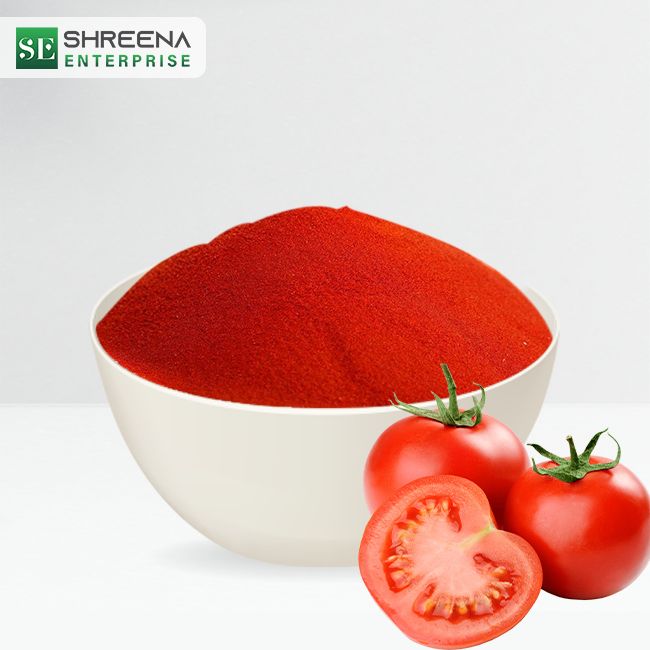
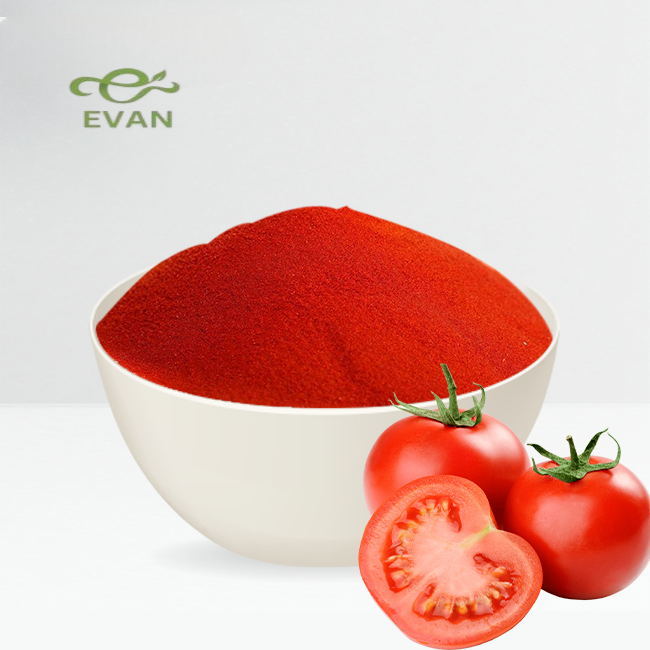
all changes

Changed region(s): [[0.0, 0.0, 0.3077, 0.2154]]

diff --git a/index.html b/index.html
@@ -24,7 +24,7 @@
         <meta name="msapplication-TileColor" content="#ffffff">
         <meta name="msapplication-TileImage" content="favicon/ms-icon-144x144.png">
         <meta name="theme-color" content="#ffffff">
-		<title>Even natural foods</title>
+		<title>Evan natural foods</title>
 		<!-- Font Awesome CSS -->
 		<link rel="stylesheet" type="text/css" href="assets/css/font-awesome.min.css" media="all" />
 		<!-- Bootstrap CSS -->
@@ -55,7 +55,7 @@
 				<div class="row">
 					<div class="col-md-2 col-sm-6">
 						<div class="logo">
-							<a href="index.html"><img src="assets/images/logo-removebg-preview (1).png" alt="logo"></a>
+							<a href="index.html"><img src="assets/images/mainlogo2-removebg-preview.png" alt="logo"></a>
 						</div>
 					</div>
 					<div class="col-md-10 col-sm-6">
@@ -133,7 +133,7 @@
                     <div class="col-lg-3 col-sm-6 new other">
                         <div class="sell-item max-width-360">
 							<div class="product-img">
-								<img src="assets/images/producttwo-logo.jpg" alt="">
+								<img src="assets/images/producttwo.png" alt="">
 								<div class="product-img-overlay">
 									<a href="https://api.whatsapp.com/send/?phone=%2B919537766039&text=Hello%2C+I+would+like+to+buy+Best+Pure+Fried+Onion+Powder+(Churi)+Birista!%21&app_absent=0" class="krishok-btn">Buy Now <i class="fa fa-shopping-cart"></i></a>
 								</div>
@@ -145,7 +145,7 @@
                     <div class="col-lg-3 col-sm-6 best seasonal">
                         <div class="sell-item max-width-360">
 							<div class="product-img">
-								<img src="assets/images/productone-logo.jpg" alt="">
+								<img src="assets/images/productone.png" alt="">
 								<div class="product-img-overlay">
 									<a href="https://api.whatsapp.com/send/?phone=%2B919537766039&text=Hello%2C+I+would+like+to+buy+High+Quality+Spray+Dried+Banana+Powder!%21&app_absent=0" class="krishok-btn">Buy Now <i class="fa fa-shopping-cart"></i></a>
 								</div>
@@ -157,7 +157,7 @@
                     <div class="col-lg-3 col-sm-6 other">
                         <div class="sell-item max-width-360">
 							<div class="product-img">
-								<img src="assets/images/productthree-logo.jpg" alt="">
+								<img src="assets/images/productthree.png" alt="">
 								<div class="product-img-overlay">
 									<a href="https://api.whatsapp.com/send/?phone=%2B919537766039&text=Hello%2C+I+would+like+to+buy+Best+Pure+Curry+Leaves+Powder!%21&app_absent=0" class="krishok-btn">Buy Now <i class="fa fa-shopping-cart"></i></a>
 								</div>
@@ -169,7 +169,7 @@
                     <div class="col-lg-3 col-sm-6 new best">
                         <div class="sell-item max-width-360">
 							<div class="product-img">
-								<img src="assets/images/productfour-logo.jpg" alt="">
+								<img src="assets/images/productfour.png" alt="">
 								<div class="product-img-overlay">
 									<a href="https://api.whatsapp.com/send/?phone=%2B919537766039&text=Hello%2C+I+would+like+to+buy+Natural+Beet+Root+Powder!%21&app_absent=0" class="krishok-btn">Buy Now <i class="fa fa-shopping-cart"></i></a>
 								</div>
@@ -181,7 +181,7 @@
                     <div class="col-lg-3 col-sm-6 new best">
                         <div class="sell-item max-width-360">
 							<div class="product-img">
-								<img src="assets/images/productfive-logo.jpg" alt="">
+								<img src="assets/images/productfive.png" alt="">
 								<div class="product-img-overlay">
 									<a href="https://api.whatsapp.com/send/?phone=%2B919537766039&text=Hello%2C+I+would+like+to+buy+Premium+High+Quality+Moringa+Leaves+Powder!%21&app_absent=0" class="krishok-btn">Buy Now <i class="fa fa-shopping-cart"></i></a>
 								</div>
@@ -193,7 +193,7 @@
                     <div class="col-lg-3 col-sm-6 new best">
                         <div class="sell-item max-width-360">
 							<div class="product-img">
-								<img src="assets/images/productseven-Photoroom-logo.png" alt="">
+								<img src="assets/images/productseven.png" alt="">
 								<div class="product-img-overlay">
 									<a href="https://api.whatsapp.com/send/?phone=%2B919537766039&text=Hello%2C+I+would+like+to+buy+Premium+Quality+Spray+Dried+Tomato+Powder!%21&app_absent=0" class="krishok-btn">Buy Now <i class="fa fa-shopping-cart"></i></a>
 								</div>
@@ -205,7 +205,7 @@
                     <div class="col-lg-3 col-sm-6 new best">
                         <div class="sell-item max-width-360">
 							<div class="product-img">
-								<img src="assets/images/fexmon-wheatgrass-powder-1603526081-5616877-logo.jpg" alt="">
+								<img src="assets/images/producteight.jpg" alt="">
 								<div class="product-img-overlay">
 									<a href="https://api.whatsapp.com/send/?phone=%2B919537766039&text=Hello%2C+I+would+like+to+buy+Premium+High+Quality+Wheatgrass+Powder!%21&app_absent=0" class="krishok-btn">Buy Now <i class="fa fa-shopping-cart"></i></a>
 								</div>
@@ -217,7 +217,7 @@
                     <div class="col-lg-3 col-sm-6 new best">
                         <div class="sell-item max-width-360">
 							<div class="product-img">
-								<img src="assets/images/Freeze-Dried-Amla-Powder-1-Photoroom-logo.png" alt="">
+								<img src="assets/images/productnine.png" alt="">
 								<div class="product-img-overlay">
 									<a href="https://api.whatsapp.com/send/?phone=%2B919537766039&text=Hello%2C+I+would+like+to+buy+Herbal+Amla+Powder!%21&app_absent=0" class="krishok-btn">Buy Now <i class="fa fa-shopping-cart"></i></a>
 								</div>
@@ -258,22 +258,22 @@
 						<div class="tab-accordion pt-75">
 							<div class="tab-content">
 								<div id="menu1" class="tab-pane fade">
-								    <img src="assets/images/productfive-logo.jpg" alt="">
+								    <img src="assets/images/productfive.png" alt="">
 								</div>
 								<div id="menu2" class="tab-pane fade active show">
-								    <img src="assets/images/productfour-logo.jpg" alt="">
+								    <img src="assets/images/productfour.png" alt="">
 								</div>
 								<div id="menu3" class="tab-pane fade">
-								    <img src="assets/images/productone-logo.jpg" alt="">
+								    <img src="assets/images/productone.png" alt="">
 								</div>
 								<div id="menu4" class="tab-pane fade">
-								    <img src="assets/images/producttwo-logo.jpg" alt="">
+								    <img src="assets/images/producttwo.png" alt="">
 								</div>
 								<div id="menu5" class="tab-pane fade">
-								    <img src="assets/images/productthree-logo.jpg" alt="">
+								    <img src="assets/images/productthree.png" alt="">
 								</div>
 								<div id="menu6" class="tab-pane fade">
-								    <img src="assets/images/productseven-Photoroom-logo.png" alt="">
+								    <img src="assets/images/" alt="">
 								</div>
 								
 							</div>
@@ -284,7 +284,7 @@
                             <li class="nav-item"><a data-toggle="tab" href="#menu1">
                                 <div class="product-list">
                                     <div class="product-list-img">
-                                        <img src="assets/images/productfive-logo.jpg" alt="">
+                                        <img src="assets/images/productfive.png" alt="">
                                     </div>
                                     <div class="product-list-info">
                                         <div class="product-list-info-table">
@@ -301,7 +301,7 @@
                             <li class="nav-item"><a class="active" data-toggle="tab" href="#menu2">
                                 <div class="product-list">
                                     <div class="product-list-img">
-                                        <img src="assets/images/productfour-logo.jpg" alt="">
+                                        <img src="assets/images/productfour.png" alt="">
                                     </div>
                                     <div class="product-list-info">
                                         <div class="product-list-info-table">
@@ -318,7 +318,7 @@
                             <li class="nav-item"><a data-toggle="tab" href="#menu3">
                                 <div class="product-list">
                                     <div class="product-list-img">
-                                        <img src="assets/images/productone-logo.jpg" alt="">
+                                        <img src="assets/images/productone.png" alt="">
                                     </div>
                                     <div class="product-list-info">
                                         <div class="product-list-info-table">
@@ -335,7 +335,7 @@
                             <li class="nav-item"><a data-toggle="tab" href="#menu4">
                                 <div class="product-list">
                                     <div class="product-list-img">
-                                        <img src="assets/images/producttwo-logo.jpg" alt="">
+                                        <img src="assets/images/producttwo.png" alt="">
                                     </div>
                                     <div class="product-list-info">
                                         <div class="product-list-info-table">
@@ -352,7 +352,7 @@
                             <!-- <li class="nav-item"><a data-toggle="tab" href="#menu5">
                                 <div class="product-list">
                                     <div class="product-list-img">
-                                        <img src="assets/images/productthree-logo.jpg" alt="">
+                                        <img src="assets/images/productthree.png" alt="">
                                     </div>
                                     <div class="product-list-info">
                                         <div class="product-list-info-table">
@@ -369,7 +369,7 @@
                             <!-- <li class="nav-item"><a data-toggle="tab" href="#menu6">
                                 <div class="product-list">
                                     <div class="product-list-img">
-                                        <img src="assets/images/productseven-Photoroom-logo.png" alt="">
+                                        <img src="assets/images/" alt="">
                                     </div>
                                     <div class="product-list-info">
                                         <div class="product-list-info-table">
@@ -405,7 +405,7 @@
                         <div class="sell-area owl-carousel">
                             <div class="sell-item">
 								<div class="product-img">
-									<img src="assets/images/fexmon-wheatgrass-powder-1603526081-5616877-logo.jpg" alt="">
+									<img src="assets/images/producteight.jpg" alt="">
 									<div class="product-img-overlay">
 										<a href="https://api.whatsapp.com/send/?phone=%2B919537766039&text=Hello%2C+I+would+like+to+buy+Premium+High+Quality+Wheatgrass+Powder!%21&app_absent=0" class="krishok-btn">Buy Now <i class="fa fa-shopping-cart"></i></a>
 									</div>
@@ -415,7 +415,7 @@
                             </div>
                             <div class="sell-item">
 								<div class="product-img">
-									<img src="assets/images/Freeze-Dried-Amla-Powder-1-Photoroom-logo.png" alt="">
+									<img src="assets/images/productnine.png" alt="">
 									<div class="product-img-overlay">
 										<a href="https://api.whatsapp.com/send/?phone=%2B919537766039&text=Hello%2C+I+would+like+to+buy+Herbal+Amla+Powder!%21&app_absent=0" class="krishok-btn">Buy Now <i class="fa fa-shopping-cart"></i></a>
 									</div>
@@ -425,7 +425,7 @@
                             </div>
                             <div class="sell-item">
 								<div class="product-img">
-									<img src="assets/images/productfive-logo.jpg" alt="">
+									<img src="assets/images/productfive.png" alt="">
 									<div class="product-img-overlay">
 										<a href="https://api.whatsapp.com/send/?phone=%2B919537766039&text=Hello%2C+I+would+like+to+buy+Premium+High+Quality+Moringa+Leaves+Powder!%21&app_absent=0" class="krishok-btn">Buy Now <i class="fa fa-shopping-cart"></i></a>
 									</div>
@@ -435,7 +435,7 @@
                             </div>
                             <div class="sell-item">
 								<div class="product-img">
-									<img src="assets/images/productfour-logo.jpg" alt="">
+									<img src="assets/images/productfour.png" alt="">
 									<div class="product-img-overlay">
 										<a href="https://api.whatsapp.com/send/?phone=%2B919537766039&text=Hello%2C+I+would+like+to+buy+Natural+Beet+Root+Powder!%21&app_absent=0" class="krishok-btn">Buy Now <i class="fa fa-shopping-cart"></i></a>
 									</div>
@@ -445,7 +445,7 @@
                             </div>
                             <div class="sell-item">
 								<div class="product-img">
-									<img src="assets/images/productone-logo.jpg" alt="">
+									<img src="assets/images/productone.png" alt="">
 									<div class="product-img-overlay">
 										<a href="https://api.whatsapp.com/send/?phone=%2B919537766039&text=Hello%2C+I+would+like+to+buy+High+Quality+Spray+Dried+Banana+Powder!%21&app_absent=0" class="krishok-btn">Buy Now <i class="fa fa-shopping-cart"></i></a>
 									</div>
@@ -548,7 +548,7 @@
 		<!-- Wow JS -->
 		<script src="assets/js/wow-1.3.0.min.js"></script>
         <!-- Google map api -->
-        <script src="https://maps.googleapis.com/maps/api/js?key=AIzaSyCXNQbOV3ZGoxAQ_H2FtRAS_i9yOdZFfBo&amp;region=GB"></script>
+      
 		<!-- Imagezoom JS -->
 		<script src="assets/js/jquery.imagezoom.js"></script>
 		<!-- main JS -->

diff --git a/products.html b/products.html
@@ -53,7 +53,7 @@
 				<div class="row">
 					<div class="col-md-2 col-sm-6">
 						<div class="logo">
-							<a href="index.html"><img src="assets/images/logo-removebg-preview (1).png" alt="logo"></a>
+							<a href="index.html"><img src="assets/images/mainlogo2-removebg-preview.png" alt="logo"></a>
 						</div>
 					</div>
 					<div class="col-md-10 col-sm-6">
@@ -96,7 +96,7 @@
                         <div class="single-product max-width-360">
 							<div class="single-product-img">
 								<div class="product-img">
-									<img src="assets/images/productfive-logo.jpg" alt="">
+									<img src="assets/images/productfive.png" alt="">
 									<div class="product-img-overlay">
 										<a href="https://api.whatsapp.com/send/?phone=%2B919537766039&text=Hello%2C+I+would+like+to+buy+Premium+High+Quality+Moringa+Leaves+Powder!%21&app_absent=0" class="krishok-btn">Buy Now <i class="fa fa-shopping-cart"></i></a>
 									</div>
@@ -115,7 +115,7 @@
                         <div class="single-product max-width-360">
 							<div class="single-product-img">
 								<div class="product-img">
-									<img src="assets/images/productfour-logo.jpg" alt="">
+									<img src="assets/images/productfour.png" alt="">
 									<div class="product-img-overlay">
 										<a href="https://api.whatsapp.com/send/?phone=%2B919537766039&text=Hello%2C+I+would+like+to+buy+Natural+Beet+Root+Powder!%21&app_absent=0" class="krishok-btn">Buy Now <i class="fa fa-shopping-cart"></i></a>
 									</div>
@@ -134,7 +134,7 @@
                         <div class="single-product max-width-360">
 							<div class="single-product-img">
 								<div class="product-img">
-									<img src="assets/images/productone-logo.jpg" alt="">
+									<img src="assets/images/productone.png" alt="">
 									<div class="product-img-overlay">
 										<a href="https://api.whatsapp.com/send/?phone=%2B919537766039&text=Hello%2C+I+would+like+to+buy+High+Quality+Spray+Dried+Banana+Powder!%21&app_absent=0" class="krishok-btn">Buy Now <i class="fa fa-shopping-cart"></i></a>
 									</div>
@@ -153,7 +153,7 @@
                         <div class="single-product max-width-360">
 							<div class="single-product-img">
 								<div class="product-img">
-									<img src="assets/images/productseven-Photoroom-logo.png" alt="">
+									<img src="assets/images/productseven.png" alt="">
 									<div class="product-img-overlay">
 										<a href="https://api.whatsapp.com/send/?phone=%2B919537766039&text=Hello%2C+I+would+like+to+buy+Premium+Quality+Spray+Dried+Tomato+Powder!%21&app_absent=0" class="krishok-btn">Buy Now <i class="fa fa-shopping-cart"></i></a>
 									</div>
@@ -173,7 +173,7 @@
                         <div class="single-product max-width-360">
 							<div class="single-product-img">
 								<div class="product-img">
-									<img src="assets/images/productthree-logo.jpg" alt="">
+									<img src="assets/images/productthree.png" alt="">
 									<div class="product-img-overlay">
 										<a href="https://api.whatsapp.com/send/?phone=%2B919537766039&text=Hello%2C+I+would+like+to+buy+Best+Pure+Curry+Leaves+Powder!%21&app_absent=0" class="krishok-btn">Buy Now <i class="fa fa-shopping-cart"></i></a>
 									</div>
@@ -193,7 +193,7 @@
                         <div class="single-product max-width-360">
 							<div class="single-product-img">
 								<div class="product-img">
-									<img src="assets/images/producttwo-logo.jpg" alt="">
+									<img src="assets/images/producttwo.png" alt="">
 									<div class="product-img-overlay">
 										<a href="https://api.whatsapp.com/send/?phone=%2B919537766039&text=Hello%2C+I+would+like+to+buy+Best+Pure+Fried+Onion+Powder+(Churi)+Birista!%21&app_absent=0" class="krishok-btn">Buy Now <i class="fa fa-shopping-cart"></i></a>
 									</div>
@@ -212,7 +212,7 @@
                         <div class="single-product max-width-360">
 							<div class="single-product-img">
 								<div class="product-img">
-									<img src="assets/images/Freeze-Dried-Amla-Powder-1-Photoroom-logo.png" alt="">
+									<img src="assets/images/productnine.png" alt="">
 									<div class="product-img-overlay">
 										<a href="https://api.whatsapp.com/send/?phone=%2B919537766039&text=Hello%2C+I+would+like+to+buy+Herbal+Amla+Powder!%21&app_absent=0" class="krishok-btn">Buy Now <i class="fa fa-shopping-cart"></i></a>
 									</div>
@@ -231,7 +231,7 @@
                         <div class="single-product max-width-360">
 							<div class="single-product-img">
 								<div class="product-img">
-									<img src="assets/images/fexmon-wheatgrass-powder-1603526081-5616877-logo.jpg" alt="">
+									<img src="assets/images/producteight.jpg" alt="">
 									<div class="product-img-overlay">
 										<a href="https://api.whatsapp.com/send/?phone=%2B919537766039&text=Hello%2C+I+would+like+to+buy+Premium+High+Quality+Wheatgrass+Powder!%21&app_absent=0" class="krishok-btn">Buy Now <i class="fa fa-shopping-cart"></i></a>
 									</div>
@@ -250,7 +250,7 @@
                         <div class="single-product max-width-360">
 							<div class="single-product-img">
 								<div class="product-img">
-									<img src="assets/images/Ginger-Powder-logo.jpg" alt="">
+									<img src="assets/images/productten.jpg" alt="">
 									<div class="product-img-overlay">
 										<a href="https://api.whatsapp.com/send/?phone=%2B919537766039&text=Hello%2C+I+would+like+to+buy+Ginger+Powder!%21&app_absent=0" class="krishok-btn">Buy Now <i class="fa fa-shopping-cart"></i></a>
 									</div>
@@ -269,7 +269,7 @@
                         <div class="single-product max-width-360">
 							<div class="single-product-img">
 								<div class="product-img">
-									<img src="assets/images/shiitake-mushroom-extract-500x500-logo.webp" alt="">
+									<img src="assets/images/productleven.webp" alt="">
 									<div class="product-img-overlay">
 										<a href="https://api.whatsapp.com/send/?phone=%2B919537766039&text=Hello%2C+I+would+like+to+buy+Mushroom+Powder!%21&app_absent=0" class="krishok-btn">Buy Now <i class="fa fa-shopping-cart"></i></a>
 									</div>

diff --git a/about-us.html b/about-us.html
@@ -53,7 +53,7 @@
 				<div class="row">
 					<div class="col-md-2 col-sm-6">
 						<div class="logo">
-							<a href="index.html"><img src="assets/images/logo-removebg-preview (1).png" alt="logo"></a>
+							<a href="index.html"><img src="assets/images/mainlogo2-removebg-preview.png" alt="logo"></a>
 						</div>
 					</div>
 					<div class="col-md-10 col-sm-6">

diff --git a/contact-us.html b/contact-us.html
@@ -53,7 +53,7 @@
 				<div class="row">
 					<div class="col-md-2 col-sm-6">
 						<div class="logo">
-							<a href="index.html"><img src="assets/images/logo-removebg-preview (1).png" alt="logo"></a>
+							<a href="index.html"><img src="assets/images/mainlogo2-removebg-preview.png" alt="logo"></a>
 						</div>
 					</div>
 					<div class="col-md-10 col-sm-6">
